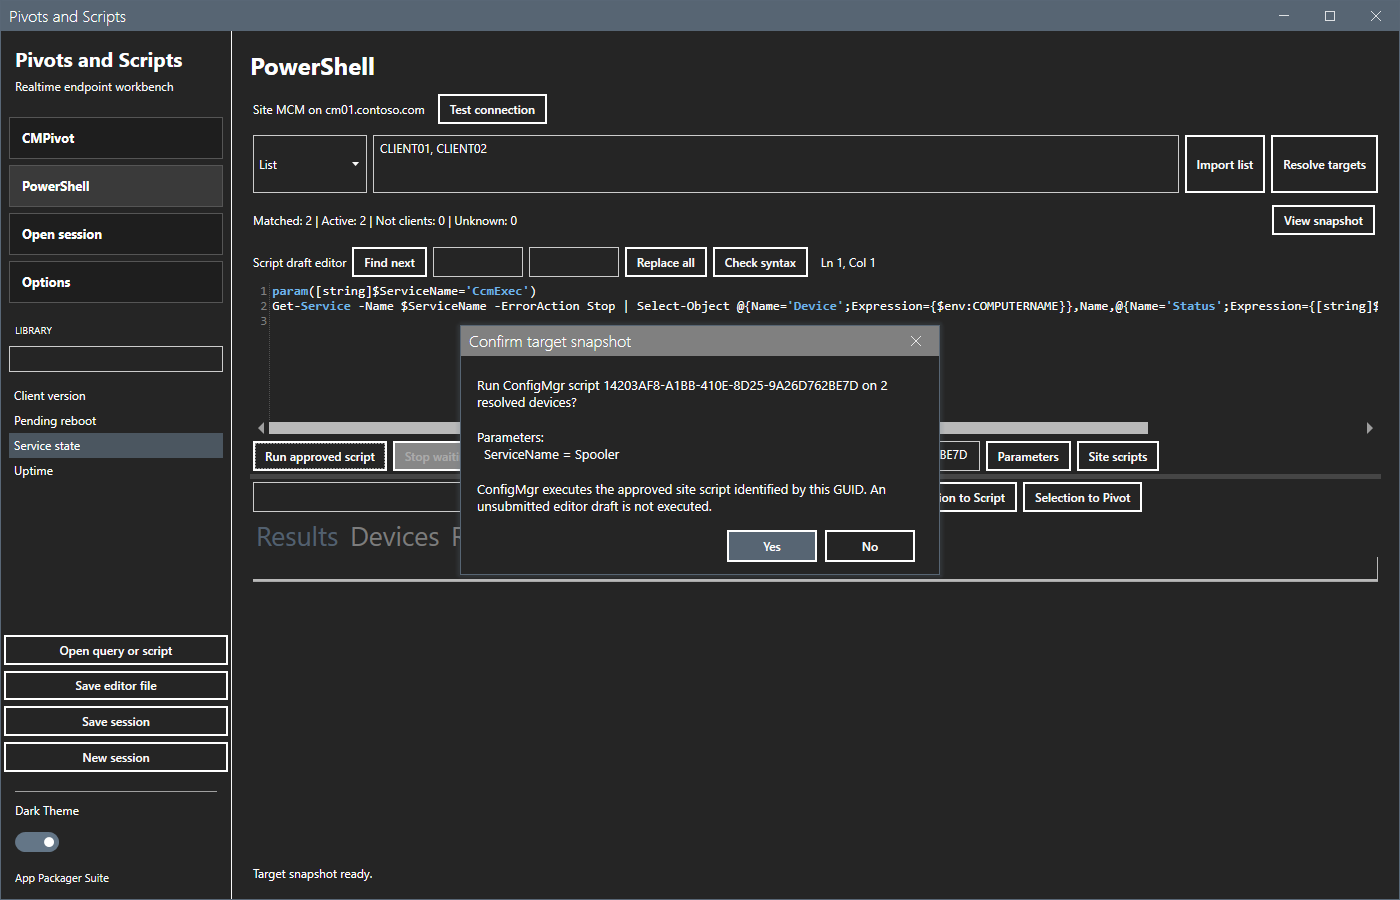
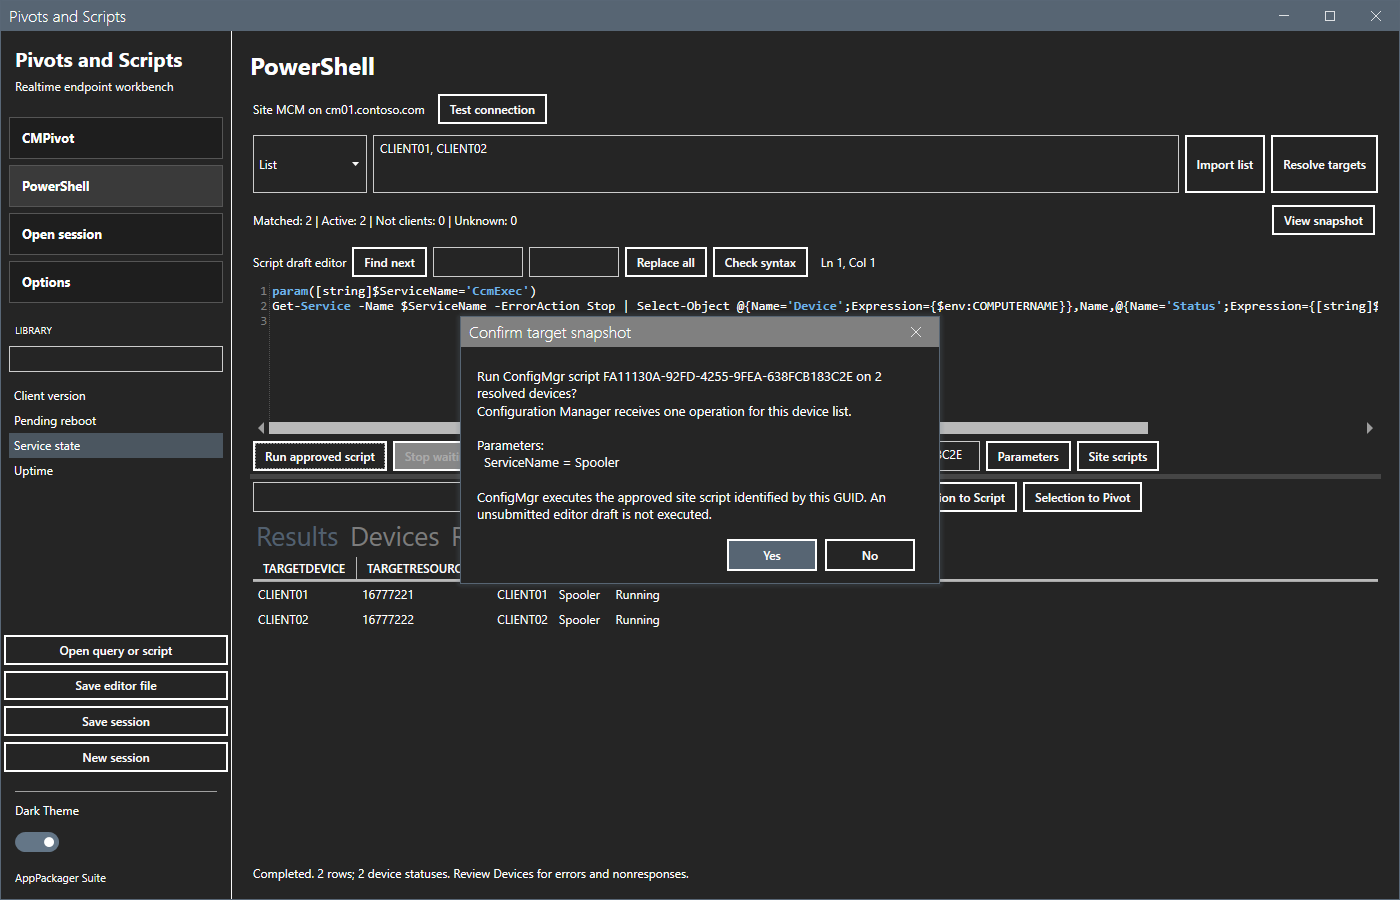
Release 2026.10.01.0002

diff --git a/README.md b/README.md
@@ -52,11 +52,13 @@ Resolve targets in one of four ways:
 | Pattern | A device name with wildcards, for example `CLIENT*`. |
 | List | Device names separated by commas, semicolons or lines. **Import** reads a TXT file, or a CSV file with a `Device` column. |
 
-The target snapshot is fixed until you resolve again. The Devices tab shows each device with its client and active state. Unknown names stay in the status line. Devices without a Configuration Manager client are skipped at run time and show **Not a client**.
+The target snapshot is fixed until you resolve again.
+
+Each run is one operation in Configuration Manager, as in the console. For a collection target, the app sends the operation to the collection, and the site sends it to the members. For other targets, the app sends one operation for the device list. While it waits, the app reads the results of all devices with one request every 3 seconds. The Devices tab shows each device with its client and active state. Unknown names stay in the status line. Devices without a Configuration Manager client are skipped at run time and show **Not a client**.
 
 ### CMPivot
 
-Open a query from the library, open a `.cmpivot` or `.kql` file, or type the query. **Ctrl+Space** opens the starter entities and operators. **Run CMPivot** asks for confirmation, then sends the query to each device and shows results as each device answers. The administration service returns HTTP 400 without a reason for an invalid query; the device detail says to check the query syntax.
+Open a query from the library, open a `.cmpivot` or `.kql` file, or type the query. **Ctrl+Space** opens the starter entities and operators. **Run CMPivot** asks for confirmation, then sends the query and shows results as each device answers. The administration service returns HTTP 400 without a reason for an invalid query; the device detail says to check the query syntax.
 
 ### Run Scripts
 
@@ -66,7 +68,7 @@ Run Scripts executes only scripts that Configuration Manager has approved. Confi
 2. **Submit** creates the script in Configuration Manager. The app stores the parameter definitions from the `param()` block with the script, so the site can pass values to it. The script waits for approval.
 3. Obtain approval. **Site scripts** lists the scripts on the site with state, author and approver. An account with **Approve** on **SMS Scripts** can approve or deny a script there, with a comment, or remove it. By default, the site does not let an author approve or deny their own script; the app shows that reason. Scripts that belong to a Configuration Manager feature, such as the built-in CMPivot script, are not listed and cannot be changed.
 4. **Parameters** shows a field for each parameter, with its default value.
-5. **Run approved script** lists the script GUID and the parameter values, then runs the approved site script on each device. The editor text is not sent; changes after submission need a new submission and approval.
+5. **Run approved script** lists the script GUID and the parameter values, then runs the approved site script on the targets. The editor text is not sent; changes after submission need a new submission and approval.
 
 **Options > Run Scripts > Approve scripts after submission** approves each new script right after Submit. It is off by default. It works only where the site lets authors approve their own scripts; Microsoft recommends that setting only in a lab. When the site refuses, the script stays waiting for approval and the status line shows the reason.
 
@@ -111,7 +113,7 @@ Queries and scripts are ordinary files in `Library\` or any folder you choose. P
 
 ## Limits
 
-- Submission and polling run one device at a time. There is no batched collection operation.
+- A collection target runs on the members at the time of the run. Members added after Resolve also answer and appear in the results.
 - There is no scheduler, no automatic script cleanup and no remediation pipeline.
 - Editor completion is a starter word list.
 

diff --git a/CHANGELOG.md b/CHANGELOG.md
@@ -1,5 +1,12 @@
 # Changelog
 
+## [2026.10.01.0002] - 2026-10-01
+
+### Fixed
+
+- CMPivot runs once per query instead of once per device
+- Script runner runs once per query instead of once per device
+
 ## [2026.10.01.0001] - 2026-10-01
 
 - Initial release.
